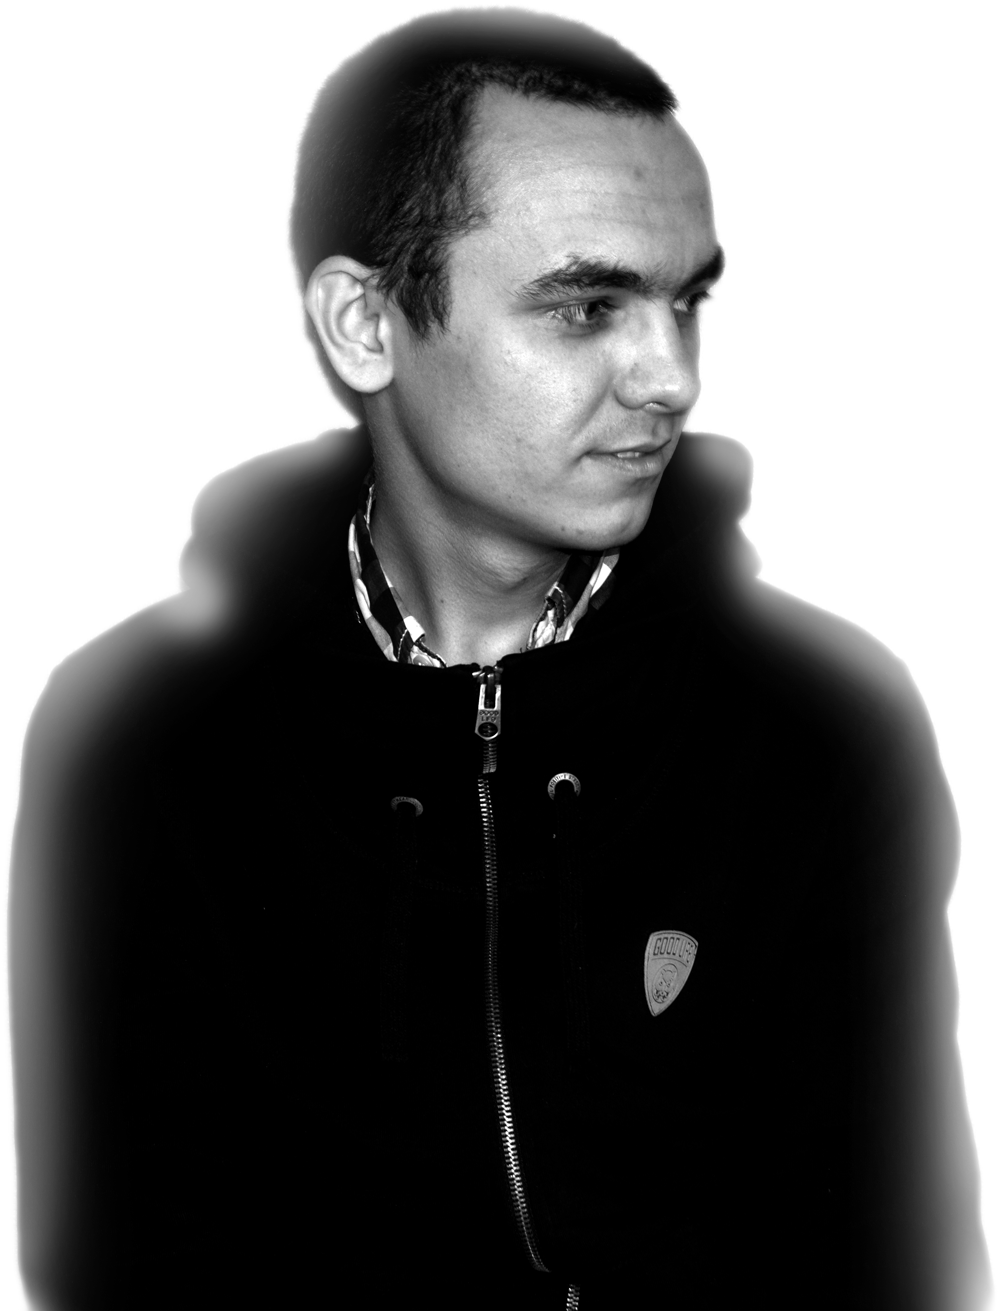
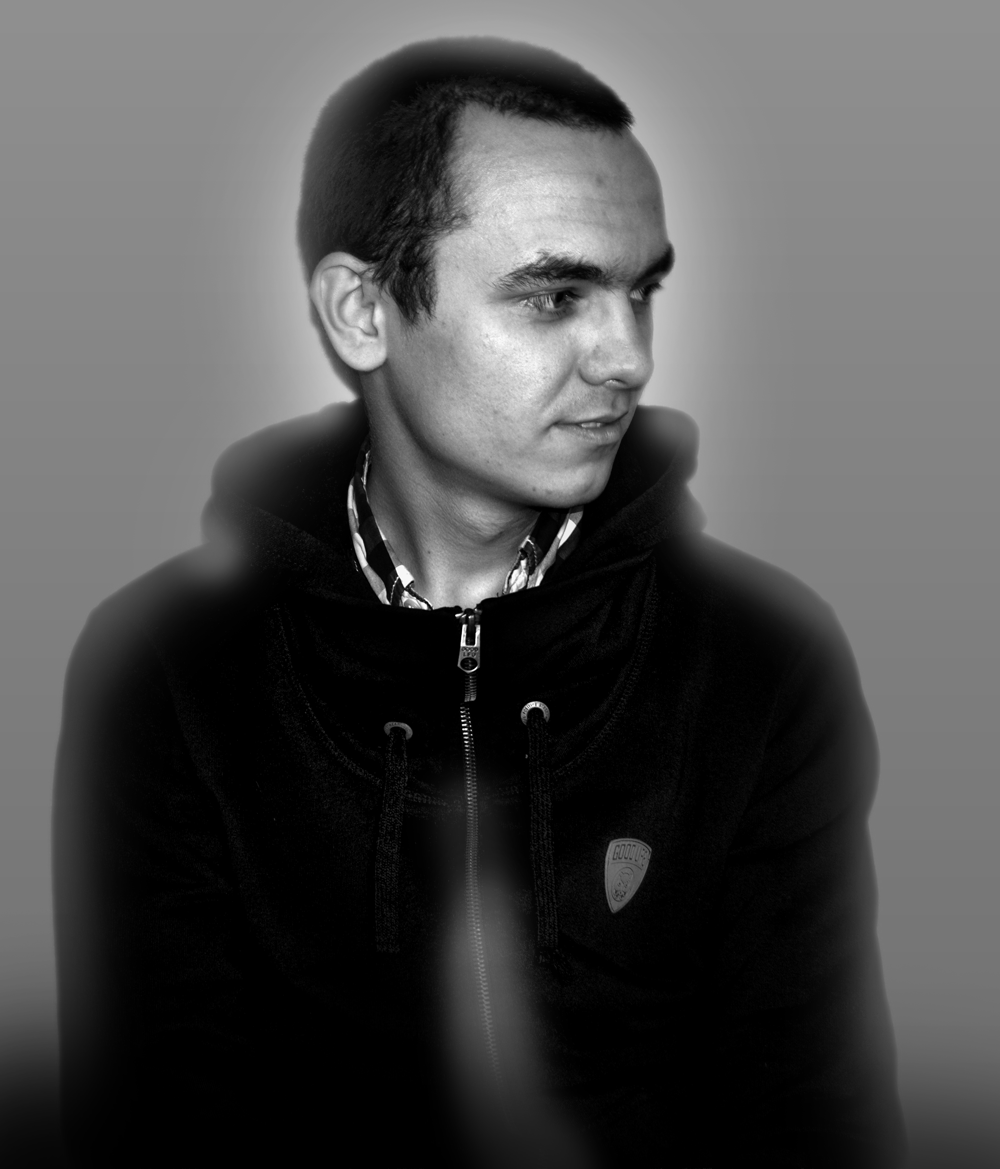
Update home

diff --git a/assets/styles/main.css b/assets/styles/main.css
@@ -1,1 +1,1 @@
-/*! normalize.css v5.0.0 | MIT License | github.com/necolas/normalize.css */html{font-family:sans-serif;line-height:1.15;-ms-text-size-adjust:100%;-webkit-text-size-adjust:100%}body{margin:0}article,aside,footer,header,nav,section{display:block}h1{font-size:2em;margin:.67em 0}figcaption,figure,main{display:block}figure{margin:1em 40px}hr{-webkit-box-sizing:content-box;box-sizing:content-box;height:0;overflow:visible}pre{font-family:monospace,monospace;font-size:1em}a{background-color:transparent;-webkit-text-decoration-skip:objects}a:active,a:hover{outline-width:0}abbr[title]{border-bottom:none;text-decoration:underline;text-decoration:underline dotted}b,strong{font-weight:inherit;font-weight:bolder}code,kbd,samp{font-family:monospace,monospace;font-size:1em}dfn{font-style:italic}mark{background-color:#ff0;color:#000}small{font-size:80%}sub,sup{font-size:75%;line-height:0;position:relative;vertical-align:baseline}sub{bottom:-.25em}sup{top:-.5em}audio,video{display:inline-block}audio:not([controls]){display:none;height:0}img{border-style:none}svg:not(:root){overflow:hidden}button,input,optgroup,select,textarea{font-family:sans-serif;font-size:100%;line-height:1.15;margin:0}button,input{overflow:visible}button,select{text-transform:none}[type=reset],[type=submit],button,html [type=button]{-webkit-appearance:button}[type=button]::-moz-focus-inner,[type=reset]::-moz-focus-inner,[type=submit]::-moz-focus-inner,button::-moz-focus-inner{border-style:none;padding:0}[type=button]:-moz-focusring,[type=reset]:-moz-focusring,[type=submit]:-moz-focusring,button:-moz-focusring{outline:1px dotted ButtonText}fieldset{border:1px solid silver;margin:0 2px;padding:.35em .625em .75em}legend{-webkit-box-sizing:border-box;box-sizing:border-box;color:inherit;display:table;max-width:100%;padding:0;white-space:normal}progress{display:inline-block;vertical-align:baseline}textarea{overflow:auto}[type=checkbox],[type=radio]{-webkit-box-sizing:border-box;box-sizing:border-box;padding:0}[type=number]::-webkit-inner-spin-button,[type=number]::-webkit-outer-spin-button{height:auto}[type=search]{-webkit-appearance:textfield;outline-offset:-2px}[type=search]::-webkit-search-cancel-button,[type=search]::-webkit-search-decoration{-webkit-appearance:none}::-webkit-file-upload-button{-webkit-appearance:button;font:inherit}details,menu{display:block}summary{display:list-item}canvas{display:inline-block}[hidden],template{display:none}html{-webkit-box-sizing:border-box;box-sizing:border-box;position:relative;min-height:100%;min-width:960px}*,:after,:before{-webkit-box-sizing:inherit;box-sizing:inherit}.page{font-family:Helvetica Neue,Helvetica,Arial,sans-serif;font-size:16px;font-weight:400;line-height:1.5;color:#e8e8e8;background:#000}.page__footer{position:absolute;bottom:0;width:100%;height:100px;background:#282828}.wrapper{width:960px;margin:0 auto;padding:0 10px}.profile{height:100%;min-height:650px;overflow:hidden}.profile,.profile__inner{position:absolute;left:0;right:0}.profile__inner{top:50%;-webkit-transform:translateY(-50%);-ms-transform:translateY(-50%);transform:translateY(-50%);max-width:1170px;padding:0 15px;margin:0 auto}.profile__inner:after{content:"";display:table;clear:both}.profile__left,.profile__right{float:left}.profile__left{width:45%}.profile__right{width:55%;padding-top:50px;padding-right:30px}.profile__photo{width:400px;margin:0 auto}.profile__photo.animated{-webkit-transform-origin:bottom;-ms-transform-origin:bottom;transform-origin:bottom;-webkit-animation-name:a;animation-name:a;-webkit-animation-delay:.6s;animation-delay:.6s;-webkit-animation-duration:1s;animation-duration:1s;-webkit-animation-fill-mode:backwards;animation-fill-mode:backwards;-webkit-transition-timing-function:ease-out;transition-timing-function:ease-out}.profile__pic{display:block;max-width:100%}.profile__info{padding:50px;background:#121212;-webkit-transform-origin:center;-ms-transform-origin:center;transform-origin:center;-webkit-transform:perspective(600px) rotateY(-7deg);transform:perspective(600px) rotateY(-7deg)}.profile__title{margin-bottom:5px}.profile__text{overflow:hidden;margin-bottom:10px;line-height:1.6}.profile__desc{color:#8e8e8e}.profile__skills{margin-bottom:15px}@-webkit-keyframes a{0%{-webkit-transform:rotateX(90deg) skewX(30deg);transform:rotateX(90deg) skewX(30deg)}60%{-webkit-transform:rotateX(-20deg) skewX(-5deg);transform:rotateX(-20deg) skewX(-5deg)}to{opacity:1;-webkit-transform:rotateX(0) skewX(0);transform:rotateX(0) skewX(0)}}@keyframes a{0%{-webkit-transform:rotateX(90deg) skewX(30deg);transform:rotateX(90deg) skewX(30deg)}60%{-webkit-transform:rotateX(-20deg) skewX(-5deg);transform:rotateX(-20deg) skewX(-5deg)}to{opacity:1;-webkit-transform:rotateX(0) skewX(0);transform:rotateX(0) skewX(0)}}.logo{width:65px;height:65px}.logo svg{fill:#fff}.wordmark{width:300px}.wordmark svg{display:block;fill:#fff}.page{overflow:hidden}.preloader{position:fixed;z-index:1;top:0;right:0;bottom:0;left:0;background:#000}.preloader__status{position:absolute;top:0;right:0;bottom:0;left:0;margin:auto}.skills{text-transform:uppercase;color:#8e8e8e;font-size:0}.skills__item{display:inline-block;padding:3px 6px;margin-right:10px;margin-bottom:10px;vertical-align:middle;border:1px solid #8e8e8e;-webkit-border-radius:4px;border-radius:4px;font-size:10px}.social{padding:0;margin:0;list-style:none}.social__item{display:inline-block;vertical-align:middle;margin-right:20px}.social__link{display:block;color:inherit;text-decoration:none;font-size:0;-webkit-transition:color .3s ease-in-out;transition:color .3s ease-in-out}.social__link:hover .fa{-webkit-transform:scale(1.3);-ms-transform:scale(1.3);transform:scale(1.3)}.social .fa{font-size:28px;-webkit-transition:all .3s ease-out;transition:all .3s ease-out;-webkit-transition:all .3s cubic-bezier(.13,.43,.54,1.82);transition:all .3s cubic-bezier(.13,.43,.54,1.82)}.mailto{float:right;margin-top:-27px}.mailto__link{color:inherit;text-decoration:none;-webkit-transition:color .2s ease-in-out;transition:color .2s ease-in-out}.mailto__link:hover{color:#b3414a}.mailto__link .fa{margin-right:5px;border-bottom:none}
+/*! normalize.css v5.0.0 | MIT License | github.com/necolas/normalize.css */html{font-family:sans-serif;line-height:1.15;-ms-text-size-adjust:100%;-webkit-text-size-adjust:100%}body{margin:0}article,aside,footer,header,nav,section{display:block}h1{font-size:2em;margin:.67em 0}figcaption,figure,main{display:block}figure{margin:1em 40px}hr{-webkit-box-sizing:content-box;box-sizing:content-box;height:0;overflow:visible}pre{font-family:monospace,monospace;font-size:1em}a{background-color:transparent;-webkit-text-decoration-skip:objects}a:active,a:hover{outline-width:0}abbr[title]{border-bottom:none;text-decoration:underline;text-decoration:underline dotted}b,strong{font-weight:inherit;font-weight:bolder}code,kbd,samp{font-family:monospace,monospace;font-size:1em}dfn{font-style:italic}mark{background-color:#ff0;color:#000}small{font-size:80%}sub,sup{font-size:75%;line-height:0;position:relative;vertical-align:baseline}sub{bottom:-.25em}sup{top:-.5em}audio,video{display:inline-block}audio:not([controls]){display:none;height:0}img{border-style:none}svg:not(:root){overflow:hidden}button,input,optgroup,select,textarea{font-family:sans-serif;font-size:100%;line-height:1.15;margin:0}button,input{overflow:visible}button,select{text-transform:none}[type=reset],[type=submit],button,html [type=button]{-webkit-appearance:button}[type=button]::-moz-focus-inner,[type=reset]::-moz-focus-inner,[type=submit]::-moz-focus-inner,button::-moz-focus-inner{border-style:none;padding:0}[type=button]:-moz-focusring,[type=reset]:-moz-focusring,[type=submit]:-moz-focusring,button:-moz-focusring{outline:1px dotted ButtonText}fieldset{border:1px solid silver;margin:0 2px;padding:.35em .625em .75em}legend{-webkit-box-sizing:border-box;box-sizing:border-box;color:inherit;display:table;max-width:100%;padding:0;white-space:normal}progress{display:inline-block;vertical-align:baseline}textarea{overflow:auto}[type=checkbox],[type=radio]{-webkit-box-sizing:border-box;box-sizing:border-box;padding:0}[type=number]::-webkit-inner-spin-button,[type=number]::-webkit-outer-spin-button{height:auto}[type=search]{-webkit-appearance:textfield;outline-offset:-2px}[type=search]::-webkit-search-cancel-button,[type=search]::-webkit-search-decoration{-webkit-appearance:none}::-webkit-file-upload-button{-webkit-appearance:button;font:inherit}details,menu{display:block}summary{display:list-item}canvas{display:inline-block}[hidden],template{display:none}html{-webkit-box-sizing:border-box;box-sizing:border-box;position:relative;min-height:100%;min-width:960px}*,:after,:before{-webkit-box-sizing:inherit;box-sizing:inherit}.page{font-family:Helvetica Neue,Helvetica,Arial,sans-serif;font-size:16px;font-weight:400;line-height:1.5;color:#e8e8e8;background:#000}.page__footer{position:absolute;bottom:0;width:100%;height:100px;background:#282828}.wrapper{width:960px;margin:0 auto;padding:0 10px}.profile{height:100%;min-height:650px;overflow:hidden}.profile,.profile__inner{position:absolute;left:0;right:0}.profile__inner{top:50%;-webkit-transform:translateY(-50%);-ms-transform:translateY(-50%);transform:translateY(-50%);max-width:1170px;padding:0 15px;margin:0 auto}.profile__inner:after{content:"";display:table;clear:both}.profile__left,.profile__right{float:left}.profile__left{width:45%}.profile__right{width:55%;padding-top:50px;padding-right:30px}.profile__photo{width:400px;margin:0 auto}.profile__photo.animated{-webkit-transform-origin:bottom;-ms-transform-origin:bottom;transform-origin:bottom;-webkit-animation-name:a;animation-name:a;-webkit-animation-delay:.6s;animation-delay:.6s;-webkit-animation-duration:1s;animation-duration:1s;-webkit-animation-fill-mode:backwards;animation-fill-mode:backwards;-webkit-transition-timing-function:ease-out;transition-timing-function:ease-out}.profile__pic{display:block;max-width:100%}.profile__info{padding:50px;background:#121212;-webkit-transform-origin:center;-ms-transform-origin:center;transform-origin:center;-webkit-transform:perspective(600px) rotateY(-10deg);transform:perspective(600px) rotateY(-10deg);-webkit-transition:all .3s ease-out;transition:all .3s ease-out}.profile__info:hover{-webkit-transform:perspective(600px) rotateY(0);transform:perspective(600px) rotateY(0)}.profile__title{margin-bottom:5px}.profile__text{overflow:hidden;margin-bottom:10px;line-height:1.6}.profile__desc{color:#8e8e8e}.profile__skills{margin-bottom:20px}@-webkit-keyframes a{0%{-webkit-transform:rotateX(90deg) skewX(30deg);transform:rotateX(90deg) skewX(30deg)}60%{-webkit-transform:rotateX(-20deg) skewX(-5deg);transform:rotateX(-20deg) skewX(-5deg)}to{opacity:1;-webkit-transform:rotateX(0) skewX(0);transform:rotateX(0) skewX(0)}}@keyframes a{0%{-webkit-transform:rotateX(90deg) skewX(30deg);transform:rotateX(90deg) skewX(30deg)}60%{-webkit-transform:rotateX(-20deg) skewX(-5deg);transform:rotateX(-20deg) skewX(-5deg)}to{opacity:1;-webkit-transform:rotateX(0) skewX(0);transform:rotateX(0) skewX(0)}}.logo{width:65px;height:65px}.logo svg{fill:#fff}.wordmark{width:300px}.wordmark svg{display:block;fill:#fff}.page{overflow:hidden}.preloader{position:fixed;z-index:1;top:0;right:0;bottom:0;left:0;background:#000}.preloader__status{position:absolute;top:0;right:0;bottom:0;left:0;margin:auto}.skills{text-transform:uppercase;color:#8e8e8e;font-size:0}.skills__item{display:inline-block;padding:3px 6px;margin-right:10px;margin-bottom:10px;vertical-align:middle;border:1px solid #8e8e8e;-webkit-border-radius:4px;border-radius:4px;font-size:10px}.social{padding:0;margin:0;list-style:none}.social__item{display:inline-block;vertical-align:middle;margin-right:20px}.social__link{display:block;color:inherit;text-decoration:none;font-size:0;-webkit-transition:color .3s ease-in-out;transition:color .3s ease-in-out}.social__link:hover .fa{-webkit-transform:scale(1.3);-ms-transform:scale(1.3);transform:scale(1.3)}.social .fa{font-size:28px;-webkit-transition:all .3s ease-out;transition:all .3s ease-out;-webkit-transition:all .3s cubic-bezier(.13,.43,.54,1.82);transition:all .3s cubic-bezier(.13,.43,.54,1.82)}.mailto{float:right;margin-top:-27px}.mailto__link{color:inherit;text-decoration:none;-webkit-transition:color .2s ease-in-out;transition:color .2s ease-in-out}.mailto__link:hover{color:#b3414a}.mailto__link .fa{margin-right:5px;border-bottom:none}

diff --git a/assets/styles/layout/_profile.sass b/assets/styles/layout/_profile.sass
@@ -49,7 +49,10 @@
     padding: 50px
     background: $background-color
     transform-origin: center
-    transform: perspective(600px) rotateY(-7deg)
+    transform: perspective(600px) rotateY(-10deg)
+    transition: all .3s ease-out
+    &:hover
+      transform: perspective(600px) rotateY(0)
 
   &__title
     margin-bottom: 5px
@@ -63,7 +66,7 @@
     color: $grey-color-light
 
   &__skills
-    margin-bottom: 15px
+    margin-bottom: 20px
 
 // Animation
 @keyframes bounceIn

diff --git a/assets/styles/components/_social.sass b/assets/styles/components/_social.sass
@@ -22,18 +22,3 @@
     font-size: 28px
     transition: all .3s ease-out
     transition: all .3s cubic-bezier(0.13, 0.43, 0.54, 1.82)
-
-.mailto
-  float: right
-  margin-top: -27px
-
-  &__link
-    color: inherit
-    text-decoration: none
-    transition: color .2s ease-in-out
-    &:hover
-      color: $brand-color
-
-    .fa
-      margin-right: 5px
-      border-bottom: none

diff --git a/_layouts/home.html b/_layouts/home.html
@@ -6,7 +6,7 @@ layout: default
   <div class="profile__inner">
     <div class="profile__left">
       <div class="profile__photo">
-        <img src="/assets/images/photo3.png" alt="My photo" class="profile__pic">
+        <img src="/assets/images/photo.png" alt="My photo" class="profile__pic">
       </div>
     </div>
     <div class="profile__right">

diff --git a/assets/styles/components/_mailto.sass b/assets/styles/components/_mailto.sass
@@ -1,0 +1,14 @@
+.mailto
+  float: right
+  margin-top: -27px
+
+  &__link
+    color: inherit
+    text-decoration: none
+    transition: color .2s ease-in-out
+    &:hover
+      color: $brand-color
+
+    .fa
+      margin-right: 5px
+      border-bottom: none

diff --git a/assets/styles/main.sass b/assets/styles/main.sass
@@ -17,6 +17,7 @@
 @import components/preloader
 @import components/skills
 @import components/social
+@import components/mailto
 @import components/buttons
 
 @import pages/home

diff --git a/index.html b/index.html
@@ -1,3 +1,3 @@
 ---
-layout: default
+layout: home
 ---
